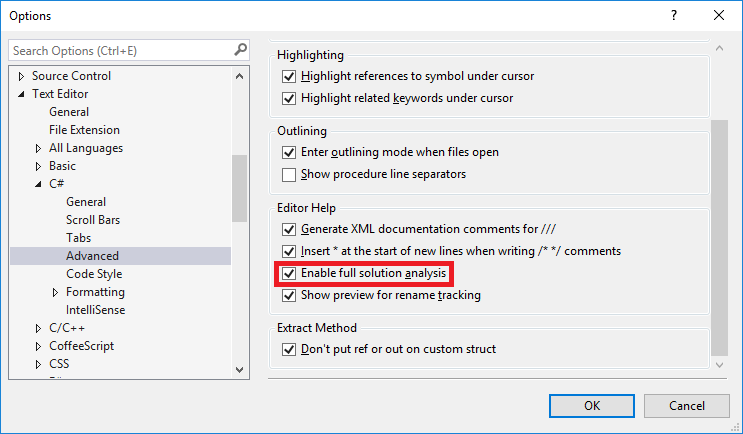
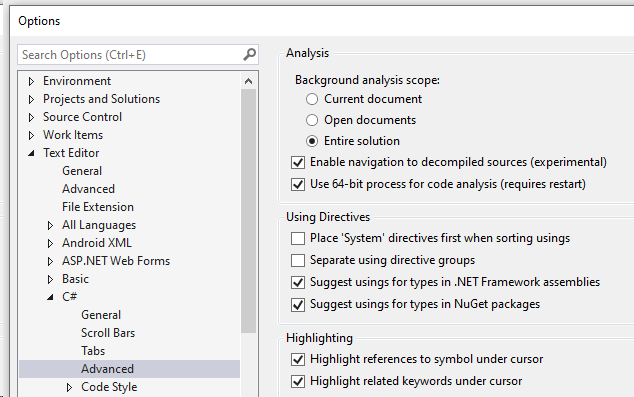
website update

Changed region(s): [[0.0, 0.0, 1.0, 1.0]]

diff --git a/website/configuration.md b/website/configuration.md
@@ -1,18 +1,18 @@
 # Configuration
-## Full Solution Analysis
-*Full solution analysis* is a Visual Studio (2015 Update 3 RC and later) feature that enables you to choose whether you see code analysis issues only in open Visual C# or Visual Basic files in your solution, or in both open and closed Visual C# or Visual Basic files in your solution. For performance reasons it is disabled by default. It is not needed if SCS is installed as NuGet package, because it will run during a build, but if it is enabled you'll see the warnings as IntelliSense from NuGet too. In VS extension case open Tools > Options in Visual Studio. Select Text Editor > C# (or Basic) > Advanced. Make sure the "Enable full solution analysis" is checked:
+## Background analysis scope
+*Background analysis scope* is a Visual Studio feature that enables you to choose whether you see code analysis issues only in open Visual C# or Visual Basic files in your solution, or in both open and closed Visual C# or Visual Basic files in your solution. For performance reasons it is disabled by default. It is not needed if SCS is installed as NuGet package, because it will run during a build, but if it is enabled you'll see the warnings as IntelliSense from NuGet too. In VS extension case open Tools > Options in Visual Studio. Select Text Editor > C# (or Basic) > Advanced. Make sure the "Entire solution" is selected:
 
-![Full Solution Analysis](images/fullsolution.png)  
-Since *Full solution analysis* for IntelliSense has performance impact this is another reason to use SCS during a build only as a NuGet instead of Visual Studio extension. Microsoft has some [additional information](https://docs.microsoft.com/en-us/visualstudio/code-quality/how-to-enable-and-disable-full-solution-analysis-for-managed-code) on the configuration option.
+![Background analysis scope](images/fullsolution.png)  
+Since *Entire solution* for IntelliSense has performance impact this is another reason to use SCS during a build only as a NuGet instead of Visual Studio extension. Microsoft has some [additional information](https://docs.microsoft.com/en-us/visualstudio/code-quality/how-to-enable-and-disable-full-solution-analysis-for-managed-code) on the configuration option.
 
 ## Testing on WebGoat.NET
 Download an intentionally vulnerable project [WebGoat.NET](https://github.com/OWASP/WebGoat.NET/zipball/master) for testing. Open the solution. If you have installed SCS as a VS extension you should see warning after few seconds in the "Errors" tab. Make sure IntelliSense results are not filtered in the window:
 
-![Intellisense](images/intellisense.png)
+![Intellisense filter](images/intellisense.png)
 
-If SCS is installed as NuGet package and *Full solution analysis* is disabled you'll need to build the solution. Then you should see the warning in the "Errors" and "Output" tabs:
+If SCS is installed as NuGet package and *Entire solution* is disabled you'll need to build the solution. Then you should see the warning in the "Errors" and "Output" tabs:
 
-![Intellisense](images/output.png)
+![Intellisense output](images/output.png)
 
 ## Analyzing .aspx and web.config Files
 To enable analysis of these files you need to modify all C#(.csproj) and VB.NET(.vbproj) projects in a solution and add "AdditionalFileItemNames" element as shown below:
@@ -47,41 +47,44 @@ $content.Save($_)
 ```
 
 ## External Configuration Files
-There are two types of external configuration files that can be used together: per user account and per project. It allows you to customize settings from [built-in configuration](https://github.com/security-code-scan/security-code-scan/blob/master/SecurityCodeScan/Config/Main.yml) or add new rules. Global settings file location is `%LocalAppData%\SecurityCodeScan\config-2.1.yml` on Windows and `$XDG_DATA_HOME/.local/share` on Unix.  
+There are two types of external configuration files that can be used together: per user account and per project. It allows you to customize settings from [built-in configuration](https://github.com/security-code-scan/security-code-scan/blob/vs2019/SecurityCodeScan/Config/Main.yml) or add new rules. Global settings file location is `%LocalAppData%\SecurityCodeScan\config-3.0.yml` on Windows and `$XDG_DATA_HOME/.local/share` on Unix.  
 
 For project specific settings add a file named SecurityCodeScan.config.yml into a project.
 > ⚠Note:
-> The file name doesn't have '2.1'. Instead it **must** have `Version: 2.1` configuration setting in it's content. If the setting is missing you will get a runtime analysis exception.
+> The file name doesn't have '3.0'. Instead it **must** have `Version: 3.0` configuration setting in it's content. If the setting is missing you will get a runtime analysis exception.
 
 Go to file properties and set the Build Action to AdditionalFiles:
 
-![image](https://user-images.githubusercontent.com/26652396/43063175-d28dc288-8e63-11e8-90eb-a7cb31900aff.png)
+![Additional files property](images/additionalfiles.png)
 
 ### Custom taint source, sinks, sanitizers and validators
 
-An example of user's (per OS user) config-2.1.yml with custom Anti CSRF token:
+An example of user's (per OS user) config-3.0.yml with custom Anti CSRF token:
 
-```yml
-CsrfProtection:
-  - Name: ASP.NET Core MVC
-    AntiCsrfAttributes:
-      - Name: MyNamespace.MyAntiCsrfAttribute
+```yaml
+AuthorizeCheck:
+  MyRuleName:
+    Name: ASP.NET MVC
+    RequiredAttributes:
+      - Type: MyNamespace.MyAuthorizationCheckAttribute
 ```
 
 An example of SecurityCodeScan.config.yml (per project) with custom sink function (method that shouldn't be called with untrusted data without first being sanitized):
 
-```yml
-Version: 2.1
+```yaml
+Version: 3.0
 
-Behavior:
-  UniqueKey:
-    Namespace: MyNamespace
-    ClassName: Test
-    Name: VulnerableFunctionName
-    InjectableArguments: [SCS0001: [0: HtmlEscaped]]
+Sinks:
+  - Type: System.Messaging.BinaryMessageFormatter
+    TaintTypes:
+      - SCS0028
+    Methods:
+    - Name: Read
+      Arguments:
+        - message
 ```
 
-See the [configuration file](https://github.com/security-code-scan/security-code-scan/blob/master/SecurityCodeScan/Config/Main.yml) for comments and examples of usage.  
+See the [configuration file](https://github.com/security-code-scan/security-code-scan/blob/vs2019/SecurityCodeScan/Config/Main.yml) for comments and examples of usage.  
 
 ### Audit Mode
 Audit mode is off by default. It can be turned on in an external configuration file to get more potentially false positive warnings about data with unknown taint state.
@@ -90,11 +93,11 @@ Audit mode is off by default. It can be turned on in an external configuration f
 If *Code Fixer* is not implemented for the warning the link "Show potential fixes" won't work. For many warnings there are too many options to resolve the issue, so the code has to be modified manually.
 If the warning is false positive it can be suppressed that is [standard functionality for Visual Studio](https://docs.microsoft.com/en-us/visualstudio/code-quality/in-source-suppression-overview) however the UI not very intuitive, because you have to click on the underlined piece of code, only then a bubble appears at the beginning of the line where suppress menu is available:
 
-![Suppress](https://i.stack.imgur.com/Gne1p.png)
+![Suppress in context menu](images/suppresscontextmenu.png)
 
 Another place where the menu is available is *Error List*:
 
-![Suppress](https://i.stack.imgur.com/oLWSt.png)
+![Suppress in error list](images/suppresserrorlist.png)
 
 It is possible to filter shown item in *Error List* by different criteria: warning id, project name, etc.
 You can permanently suppress entire warning type for a project by setting it's warning id severity to *None*. Microsoft has [it's own documentation](https://docs.microsoft.com/en-us/visualstudio/code-quality/use-roslyn-analyzers) about suppressions, rule sets and severities.

diff --git a/website/rules/0012.md b/website/rules/0012.md
@@ -1,39 +1,1 @@
-### SCS0012 - Weak ECB Mode
-ECB mode will produce the same result for identical blocks (ie: 16 bytes for AES). An attacker could be able to guess the encrypted message. The use of AES in CBC mode with a HMAC is recommended guaranteeing integrity and confidentiality.
-#### Risk
-The ECB mode will produce identical encrypted block for equivalent plain text block. This could allow an attacker that is eavesdropping to guess the content sent. This same property can also allow the recovery of the original message. Furthermore, this cipher mode alone does not guarantee integrity.
-#### Vulnerable Code
-```cs
-using (var aes = new AesManaged {
-    KeySize = KeyBitSize,
-    BlockSize = BlockBitSize,
-    Mode = CipherMode.ECB, // !!!
-    Padding = PaddingMode.PKCS7
-})
-{
-    //Use random IV
-    aes.GenerateIV();
-    iv = aes.IV;
-    using (var encrypter = aes.CreateEncryptor(cryptKey, iv))
-    using (var cipherStream = new MemoryStream())
-    {
-        using (var cryptoStream = new CryptoStream(cipherStream, encrypter, CryptoStreamMode.Write))
-        using (var binaryWriter = new BinaryWriter(cryptoStream))
-        {
-            //Encrypt Data
-            binaryWriter.Write(secretMessage);
-        }
-        cipherText = cipherStream.ToArray();
-    }
-}
-//No HMAC suffix to check integrity!!!
-```
-#### Solution
-Use some other mode, but notice that CBC without authenticated integrity check is vulnerable to another type of attack. For an example of authenticated integrity check see the [Solution in Weak Cipher Mode](#SCS0013).
-#### References
-[Wikipedia: ECB mode](https://en.wikipedia.org/wiki/Block_cipher_mode_of_operation#Electronic_Codebook_(ECB))  
-[Padding Oracles for the masses (by Matias Soler)](http://www.infobytesec.com/down/paddingoracle_openjam.pdf)  
-[Wikipedia: Authenticated encryption](http://en.wikipedia.org/wiki/Authenticated_encryption)  
-[NIST: Authenticated Encryption Modes](http://csrc.nist.gov/groups/ST/toolkit/BCM/modes_development.html#01)  
-[CAPEC: Padding Oracle Crypto Attack](http://capec.mitre.org/data/definitions/463.html)  
-[CWE-696: Incorrect Behavior Order](http://cwe.mitre.org/data/definitions/696.html)  
+### SCS0012 - Controller method is potentially vulnerable to authorization bypass

diff --git a/website/installation.md b/website/installation.md
@@ -1,7 +1,7 @@
 # Installation
 Security Code Scan (SCS) [can be installed as](https://docs.microsoft.com/en-us/visualstudio/code-quality/install-roslyn-analyzers):
-* [Visual Studio extension](https://marketplace.visualstudio.com/items?itemName=JaroslavLobacevski.SecurityCodeScan). Use the link or open "Tools > Extensions and Updates..." Select "Online" in the tree on the left and search for SecurityCodeScan in the right upper field. Click "Download" and install.
-* [NuGet package](https://www.nuget.org/packages/SecurityCodeScan/).
+* [Visual Studio extension](https://marketplace.visualstudio.com/items?itemName=JaroslavLobacevski.SecurityCodeScanVS2019). Use the link or open "Tools > Extensions and Updates..." Select "Online" in the tree on the left and search for SecurityCodeScan in the right upper field. Click "Download" and install.
+* [NuGet package](https://www.nuget.org/packages/SecurityCodeScan.VS2019/).
   * Right-click on the root item in your solution. Select "Manage NuGet Packages for Solution...". Select "Browse" on the top and search for Security Code Scan. Select project you want to install into and click "Install".
   * Another option is to install the package into all projects in a solution: use "Tools > NuGet Package Manager > Package Manager Console". Run the command `Get-Project -All | Install-Package SecurityCodeScan`.
 
@@ -10,7 +10,7 @@ Installing it as NuGet package gives an advantage to choose projects in a soluti
 > In a .NET Core project, if you add a reference to a project that has SCS as a NuGet package, it is automatically added to the dependent project too. To disable this behavior, for example if the dependent project is a unit test project, mark the NuGet package as private in the *.csproj* or *.vbproj* file of the referenced project:
 >
 > ```xml
-> <PackageReference Include="SecurityCodeScan" Version="3.0.0" PrivateAssets="all" />
+> <PackageReference Include="SecurityCodeScan" Version="5.0.0" PrivateAssets="all" />
 > ```
 
 However it requires discipline to install SCS into every solution a developer works with. Installing it as a Visual Studio extension is a single install action.

diff --git a/website/rules/0026.md b/website/rules/0026.md
@@ -1,14 +1,21 @@
-### SCS0026 - SQL Injection (MsSQL Data Provider)
-Use parametrized queries to mitigate SQL injection.
+### SCS0026 - LDAP Distinguished Name Injection
+The dynamic value passed to the LDAP query should be validated.
+#### Risk
+If the user input is not properly filtered, a malicious user could extend the LDAP query.
 #### Vulnerable Code
 ```cs
-var cmd = new SqlCommand("SELECT * FROM Users WHERE username = '" + username + "' and role='user'");
+var dir = new DirectoryEntry();
+dir.Path = $"GC://DC={input},DC=com";
 ```
 #### Solution
+Use proper encoder (`LdapFilterEncode` or `LdapDistinguishedNameEncode`) from [AntiXSS library](https://www.nuget.org/packages/AntiXSS/):
 ```cs
-var cmd = new SqlCommand("SELECT * FROM Users WHERE username = @username and role='user'");
-cmd.Parameters.AddWithValue("username", username);
+var dir = new DirectoryEntry();
+dir.Path = $"GC://DC={Encoder.LdapDistinguishedNameEncode(input)},DC=com";
 ```
 #### References
-[SqlCommand Class Documentation](https://msdn.microsoft.com/en-us/library/system.data.sqlclient.sqlcommand(v=vs.110).aspx)  
-[See references in the main SQL Injection section](#SQLInjection)  
+[OWASP: LDAP Injection](https://www.owasp.org/index.php/LDAP_injection)  
+[OWASP: LDAP Injection Prevention Cheat Sheet](https://www.owasp.org/index.php/LDAP_Injection_Prevention_Cheat_Sheet)  
+[MSDN Blog - Security Tools: LDAP Injection and mitigation](https://blogs.msdn.microsoft.com/securitytools/2009/08/10/ldap-injection-and-mitigation/)  
+[WASC-29: LDAP Injection](http://projects.webappsec.org/w/page/13246947/LDAP%20Injection)  
+[CWE-90: Improper Neutralization of Special Elements used in an LDAP Query ('LDAP Injection')](https://cwe.mitre.org/data/definitions/90.html)  

diff --git a/website/rules/0002.md b/website/rules/0002.md
@@ -1,21 +1,21 @@
-### SCS0002 - SQL Injection (LINQ)
+### SCS0035 - SQL Injection
+Use parametrized queries to mitigate SQL injection.
 #### Vulnerable Code
 ```cs
-db.ExecuteQuery(@"SELECT name FROM dbo.Users WHERE UserId = " + inputId + " AND group = 5");
-```
-```cs
-var query = "SELECT name FROM dbo.Users WHERE UserId = " + userId + " AND group = 5";
-var id = context.ExecuteQuery<IEnumerable<string>>(query).SingleOrDefault();
+var cmd = "SELECT * FROM Users WHERE username = '" + input + "' and role='user'";
+ctx.Database.ExecuteSqlCommand(
+    cmd);
 ```
 #### Solution
 ```cs
-var query = from user in db.Users
-where user.UserId == inputId
-select user.name;
-```
-```cs
-var query = "SELECT name FROM dbo.Users WHERE UserId = {0} AND group = 5";
-var id = context.ExecuteQuery<IEnumerable<string>>(query, userId).SingleOrDefault();
+var cmd = "SELECT * FROM Users WHERE username = @username and role='user'";
+ctx.Database.ExecuteSqlCommand(
+    cmd,
+    new SqlParameter("@username", input));
 ```
 #### References
-[LINQ: How to Query for Information](https://msdn.microsoft.com/en-us/library/bb546192(v=vs.110).aspx)  
+[Entity Framework Documentation](https://msdn.microsoft.com/en-us/library/gg696172(v=vs.103).aspx)  
+[Execute Raw SQL Queries in Entity Framework 6](http://www.entityframeworktutorial.net/entityframework4.3/raw-sql-query-in-entity-framework.aspx)  
+[Executing Raw SQL Queries in Entity Framework Core](https://www.learnentityframeworkcore.com/raw-sql)  
+[Bobby Tables: A guide to preventing SQL injection > Entity Framework](http://bobby-tables.com/adodotnet_ef)  
+[See references in the main SQL Injection section](#SQLInjection)  

diff --git a/website/rules/0011.md b/website/rules/0011.md
@@ -1,38 +1,1 @@
-### SCS0011 - Weak CBC Mode
-The CBC mode alone is susceptible to padding oracle attack.
-#### Risk
-If an attacker is able to submit encrypted payload and the server is decrypting its content. The attacker is likely to decrypt its content.
-#### Vulnerable Code
-```cs
-using (var aes = new AesManaged {
-    KeySize = KeyBitSize,
-    BlockSize = BlockBitSize,
-    Mode = CipherMode.CBC,
-    Padding = PaddingMode.PKCS7
-})
-{
-    //Use random IV
-    aes.GenerateIV();
-    iv = aes.IV;
-    using (var encrypter = aes.CreateEncryptor(cryptKey, iv))
-    using (var cipherStream = new MemoryStream())
-    {
-        using (var cryptoStream = new CryptoStream(cipherStream, encrypter, CryptoStreamMode.Write))
-        using (var binaryWriter = new BinaryWriter(cryptoStream))
-        {
-            //Encrypt Data
-            binaryWriter.Write(secretMessage);
-        }
-        cipherText = cipherStream.ToArray();
-    }
-}
-//No HMAC suffix to check integrity!!!
-```
-#### Solution
-See the [Solution in Weak Cipher Mode](#SCS0013).
-#### References
-[Padding Oracles for the masses (by Matias Soler)](http://www.infobytesec.com/down/paddingoracle_openjam.pdf)  
-[Wikipedia: Authenticated encryption](http://en.wikipedia.org/wiki/Authenticated_encryption)  
-[NIST: Authenticated Encryption Modes](http://csrc.nist.gov/groups/ST/toolkit/BCM/modes_development.html#01)  
-[CAPEC: Padding Oracle Crypto Attack](http://capec.mitre.org/data/definitions/463.html)  
-[CWE-696: Incorrect Behavior Order](http://cwe.mitre.org/data/definitions/696.html)  
+### SCS0011 - Unsafe XSLT setting used

diff --git a/website/rules/0013.md b/website/rules/0013.md
@@ -1,4 +1,4 @@
-### SCS0013 - Weak Cipher Mode
+### SCS0013 - Potential usage of weak AES mode
 The cipher text produced is susceptible to alteration by an adversary.
 #### Risk
 The cipher provides no way to detect that the data has been tampered with. If the cipher text can be controlled by an attacker, it could be altered without detection. The use of AES in CBC mode with a HMAC is recommended guaranteeing integrity and confidentiality.
@@ -138,5 +138,6 @@ public static byte[] SimpleEncrypt(byte[] secretMessage, byte[] cryptKey, byte[]
 [Padding Oracles for the masses (by Matias Soler)](http://www.infobytesec.com/down/paddingoracle_openjam.pdf)  
 [Wikipedia: Authenticated encryption](http://en.wikipedia.org/wiki/Authenticated_encryption)  
 [NIST: Authenticated Encryption Modes](http://csrc.nist.gov/groups/ST/toolkit/BCM/modes_development.html#01)  
-[CAPEC: Padding Oracle Crypto Attack](http://capec.mitre.org/data/definitions/463.html)  
 [CWE-696: Incorrect Behavior Order](http://cwe.mitre.org/data/definitions/696.html)  
+[CAPEC: Padding Oracle Crypto Attack](http://capec.mitre.org/data/definitions/463.html)  
+[Wikipedia: ECB mode](https://en.wikipedia.org/wiki/Block_cipher_mode_of_operation#Electronic_Codebook_(ECB))  

diff --git a/website/rules/0031.md b/website/rules/0031.md
@@ -1,4 +1,4 @@
-### SCS0031 - LDAP Injection
+### SCS0031 - LDAP Filter Injection
 The dynamic value passed to the LDAP query should be validated.
 #### Risk
 If the user input is not properly filtered, a malicious user could extend the LDAP query.
@@ -7,21 +7,11 @@ If the user input is not properly filtered, a malicious user could extend the LD
 var searcher = new DirectorySearcher();
 searcher.Filter = "(cn=" + input + ")";
 ```
-or
-```cs
-var dir = new DirectoryEntry();
-dir.Path = $"GC://DC={input},DC=com";
-```
 #### Solution
 Use proper encoder (`LdapFilterEncode` or `LdapDistinguishedNameEncode`) from [AntiXSS library](https://www.nuget.org/packages/AntiXSS/):
 ```cs
 var searcher = new DirectorySearcher();
 searcher.Filter = "(cn=" + Encoder.LdapFilterEncode(input) + ")";
-```
-or
-```cs
-var dir = new DirectoryEntry();
-dir.Path = $"GC://DC={Encoder.LdapDistinguishedNameEncode(input)},DC=com";
 ```
 #### References
 [OWASP: LDAP Injection](https://www.owasp.org/index.php/LDAP_injection)  
